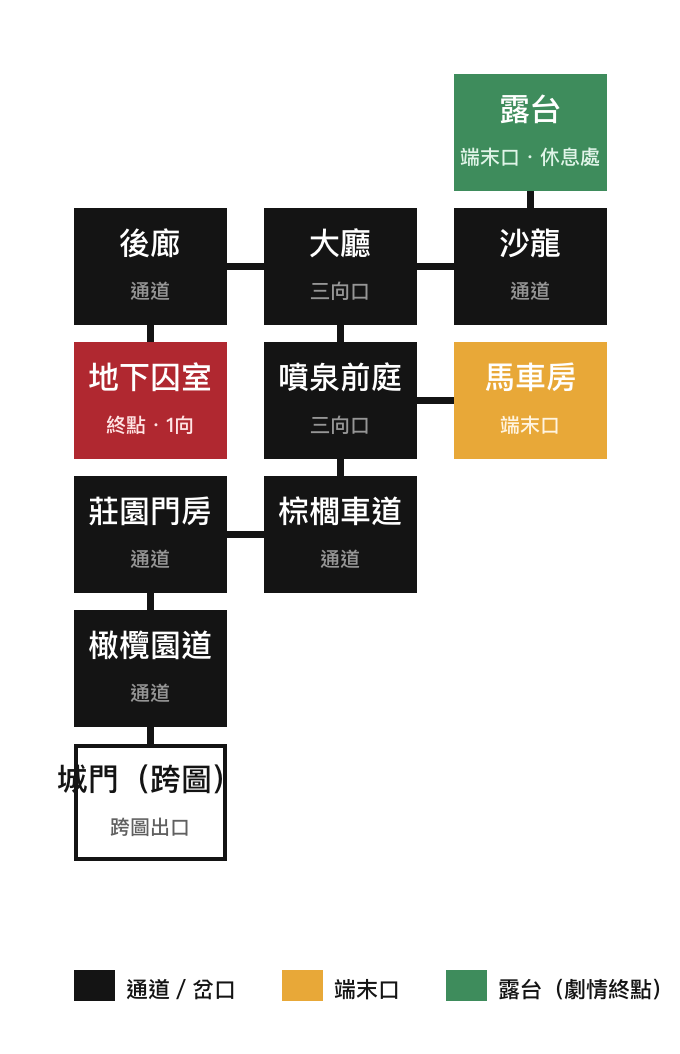
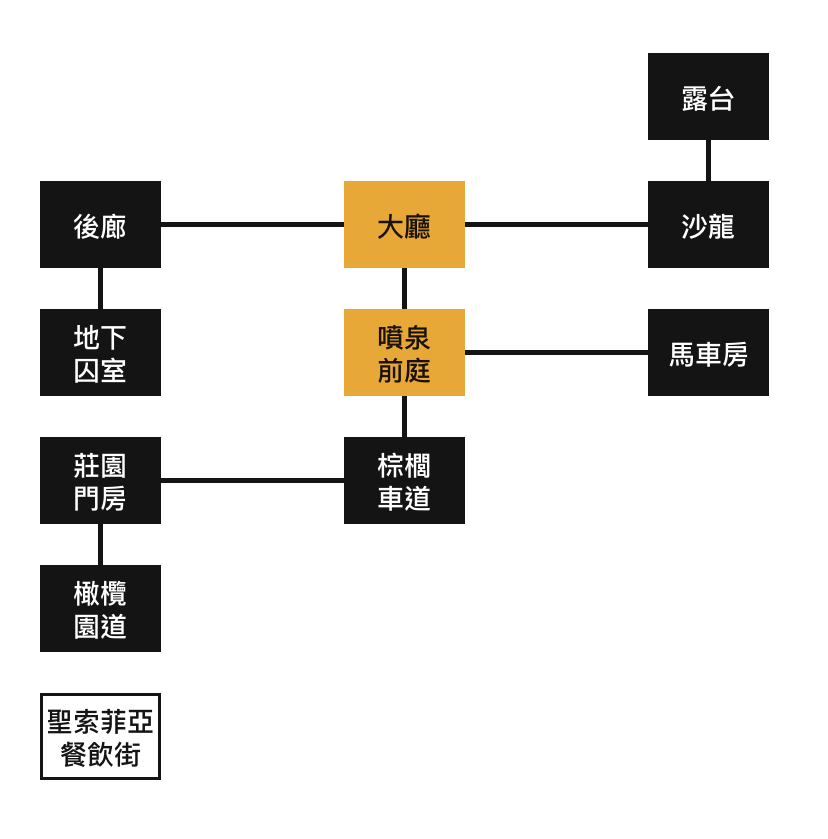
feat(里朋莊園): sofiaout 10 格搬進 TOWNS，聖索菲亞餐飲街往右進莊園（園道回頭接餐飲街）；草稿回收 ver -1762

diff --git a/flight/index.html b/flight/index.html
@@ -3,7 +3,7 @@
 <head>
 <meta charset="utf-8">
 <meta name="viewport" content="width=device-width,initial-scale=1,maximum-scale=1,user-scalable=no,viewport-fit=cover">
-<script src="../orientation.js?v=1761"></script>
+<script src="../orientation.js?v=1762"></script>
 <title>TIVOT — 銀月大陸航行</title>
 <style>
   :root{ --gold:#c9a227; --parch:#d8cdb4; }
@@ -212,7 +212,7 @@
     100%{transform:translate(0,0);} }
   #fkerbDoor{position:absolute;left:0;top:0;transform:translateY(0);
     transition:transform 1s cubic-bezier(.22,.9,.25,1);
-    background-image:url('../resources/vfx/kerberos_door.webp?v=1761edab');
+    background-image:url('../resources/vfx/kerberos_door.webp?v=1762edab');
     background-repeat:no-repeat;background-size:100% 100%;}
   #fkerb.rise #fkerbDoor{transform:translateY(calc(var(--fkerb-rise,0px) * -1));}
   /* 楣與其餘零件：全部是門的子元素＝同一剛體，門上推它們跟著上去
@@ -235,8 +235,8 @@
       radial-gradient(circle at 50% 22%, rgba(0,0,0,.72) 40%, rgba(0,0,0,0) 78%);
     box-shadow:inset 0 3px 7px rgba(0,0,0,.85);}
   #fkerbGear .fkg-shine{position:absolute;inset:0;mix-blend-mode:screen;opacity:.8;
-    -webkit-mask-image:url("../resources/vfx/kerberos_gear.webp?v=1761edab");
-    mask-image:url("../resources/vfx/kerberos_gear.webp?v=1761edab");
+    -webkit-mask-image:url("../resources/vfx/kerberos_gear.webp?v=1762edab");
+    mask-image:url("../resources/vfx/kerberos_gear.webp?v=1762edab");
     -webkit-mask-size:100% 100%;mask-size:100% 100%;
     -webkit-mask-repeat:no-repeat;mask-repeat:no-repeat;
     background:linear-gradient(114deg,
@@ -256,8 +256,8 @@
     filter:drop-shadow(0 3px 7px rgba(0,0,0,.9)) drop-shadow(0 0 2px rgba(0,0,0,.8));}
   #fkerbPend .fkp-shine{position:absolute;inset:0;pointer-events:none;
     mix-blend-mode:screen;opacity:.85;
-    -webkit-mask-image:url("../resources/vfx/kerberos_pendant.webp?v=1761edab");
-    mask-image:url("../resources/vfx/kerberos_pendant.webp?v=1761edab");
+    -webkit-mask-image:url("../resources/vfx/kerberos_pendant.webp?v=1762edab");
+    mask-image:url("../resources/vfx/kerberos_pendant.webp?v=1762edab");
     -webkit-mask-size:100% 100%;mask-size:100% 100%;
     -webkit-mask-repeat:no-repeat;mask-repeat:no-repeat;
     background:linear-gradient(114deg,
@@ -620,25 +620,25 @@
        ⚠ 要有，否則交棒那一格齒輪會憑空冒出來（同吊墜的理由）。
        ⚠ 排在 `.fk-plate` 之前 ＝ 團徽之下、槍棺之上。 -->
   <div id="fkerbGear"><i class="fkg-well"></i>
-    <img src="../resources/vfx/kerberos_gear.webp?v=1761edab" alt=""><i class="fkg-shine"></i></div>
+    <img src="../resources/vfx/kerberos_gear.webp?v=1762edab" alt=""><i class="fkg-shine"></i></div>
   <div id="fkerbGearSm"><i class="fkg-well"></i>
-    <img src="../resources/vfx/kerberos_gear.webp?v=1761edab" alt=""></div>
-  <img class="fk-plate" src="../resources/vfx/kerberos_plate.webp?v=1761edab" alt="">
-  <img class="fk-arrow n" src="../resources/vfx/kerberos_arrow.webp?v=1761edab" alt="">
-  <img class="fk-arrow e" src="../resources/vfx/kerberos_arrow.webp?v=1761edab" alt="">
-  <img class="fk-arrow s" src="../resources/vfx/kerberos_arrow.webp?v=1761edab" alt="">
-  <img class="fk-arrow w" src="../resources/vfx/kerberos_arrow.webp?v=1761edab" alt="">
-  <img class="fk-rivet r10" src="../resources/vfx/kerberos_rivet.webp?v=1761edab" alt="">
-  <img class="fk-rivet r2"  src="../resources/vfx/kerberos_rivet.webp?v=1761edab" alt="">
-  <img class="fk-rivet r4"  src="../resources/vfx/kerberos_rivet.webp?v=1761edab" alt="">
-  <img class="fk-rivet r8"  src="../resources/vfx/kerberos_rivet.webp?v=1761edab" alt="">
+    <img src="../resources/vfx/kerberos_gear.webp?v=1762edab" alt=""></div>
+  <img class="fk-plate" src="../resources/vfx/kerberos_plate.webp?v=1762edab" alt="">
+  <img class="fk-arrow n" src="../resources/vfx/kerberos_arrow.webp?v=1762edab" alt="">
+  <img class="fk-arrow e" src="../resources/vfx/kerberos_arrow.webp?v=1762edab" alt="">
+  <img class="fk-arrow s" src="../resources/vfx/kerberos_arrow.webp?v=1762edab" alt="">
+  <img class="fk-arrow w" src="../resources/vfx/kerberos_arrow.webp?v=1762edab" alt="">
+  <img class="fk-rivet r10" src="../resources/vfx/kerberos_rivet.webp?v=1762edab" alt="">
+  <img class="fk-rivet r2"  src="../resources/vfx/kerberos_rivet.webp?v=1762edab" alt="">
+  <img class="fk-rivet r4"  src="../resources/vfx/kerberos_rivet.webp?v=1762edab" alt="">
+  <img class="fk-rivet r8"  src="../resources/vfx/kerberos_rivet.webp?v=1762edab" alt="">
   <!-- 吊墜（ver -412）：與主遊戲同一套（見 index.html 的 #kerbPend 與 style.css）。
        ⚠ 這一頁**必須也有** —— 遭遇時門是在這裡推上來的，交棒之後主遊戲那一半才接手；
          只有一邊掛吊墜的話，交棒那一格會憑空多出一個東西。 -->
   <div id="fkerbPend"><div class="fkp-swing"><div class="fkp-idle">
-    <img src="../resources/vfx/kerberos_pendant.webp?v=1761edab" alt=""><i class="fkp-shine"></i>
+    <img src="../resources/vfx/kerberos_pendant.webp?v=1762edab" alt=""><i class="fkp-shine"></i>
   </div></div></div>
-  <img id="fkerbTop" src="../resources/vfx/kerberos_top.webp?v=1761edab" alt="">
+  <img id="fkerbTop" src="../resources/vfx/kerberos_top.webp?v=1762edab" alt="">
 </div></div>
 <div id="boot">
   <div id="bRing">
@@ -659,11 +659,11 @@
   <div id="bMsg"><small id="bootMsg"></small></div>
 </div>
 
-<script src="settlement.js?v=1761"></script>
+<script src="settlement.js?v=1762"></script>
 <!-- 閒聊對話的**內容**獨立成一支：方便加台詞、加觸發條件而不必碰引擎。
      ⚠ 一般 <script>（非 module）→ TALKS / talkPeriod / talkPick 是全域，
        而且會在下面這段 inline 之前執行完，所以 inline 內可以直接用。 -->
-<script src="talks.js?v=1761"></script>
+<script src="talks.js?v=1762"></script>
 <script>
 /* ══════════════════════════════════════════════════════════════════════
    TIVOT — 銀月大陸航行（吃真實地圖版）
@@ -715,7 +715,7 @@ const COLOR_URL  = 'silvermoon_terrain.png'  + TERRAIN_V;
    以前是手寫的，於是從 -911 起就沒有人記得動它 —— 而 HUD 上的版本號正是 Ray
    在手機上確認「我現在跑的是哪一版」的唯一依據（鐵律 7：一個量一個計算點；
    ver -626：版本號不動就等於沒有版本號）。**不要手改。** */
-const FLIGHT_VER = 'ver -1761';
+const FLIGHT_VER = 'ver -1762';
 const MAP_SCALE  = 20;
 const INV_SCALE  = 1/MAP_SCALE;
 const PEAK_SCALE = 520;   // 高度圖 255 對應的世界高度（越大山越陡）

diff --git a/index.html b/index.html
@@ -16,7 +16,7 @@
 <link rel="apple-touch-icon" href="resources/background/tivot_emblem.png">
 <title>TIVOT</title>
 <!-- 全域鎖直向（真鎖 + 橫向擋板）；classic script，需在版面就緒前掛上 -->
-<script src="orientation.js?v=1761"></script>
+<script src="orientation.js?v=1762"></script>
 <!-- ══ 效能探針・計數層（ver -850，Ray：「沒有辦法寫一個偵測程式進去看是什麼
      東西在吃資源嗎？」）══ 要在**所有程式之前**掛（晚掛就數不到早開的計時器），
      所以住在這裡。只做登記（Set/計數，開銷趨近零）；讀取與呈現在 main.js 的
@@ -63,56 +63,56 @@
 <script type="importmap">
 {
   "imports": {
-    "./audio.js": "./audio.js?v=1761",
-    "./config.js": "./config.js?v=1761",
-    "./i18n.js": "./i18n.js?v=1761",
-    "./main.js": "./main.js?v=1761",
-    "./orientation.js": "./orientation.js?v=1761",
-    "./state.js": "./state.js?v=1761",
-    "./telemetry.js": "./telemetry.js?v=1761",
-    "./modules/combat.js": "./modules/combat.js?v=1761",
-    "./modules/defense.js": "./modules/defense.js?v=1761",
-    "./modules/enemy.js": "./modules/enemy.js?v=1761",
-    "./modules/gear.js": "./modules/gear.js?v=1761",
-    "./modules/groundShadow.js": "./modules/groundShadow.js?v=1761",
-    "./modules/haptics.js": "./modules/haptics.js?v=1761",
-    "./modules/inn.js": "./modules/inn.js?v=1761",
-    "./modules/inspector.js": "./modules/inspector.js?v=1761",
-    "./modules/loot.js": "./modules/loot.js?v=1761",
-    "./modules/partner.js": "./modules/partner.js?v=1761",
-    "./modules/saint.js": "./modules/saint.js?v=1761",
-    "./modules/sakura.js": "./modules/sakura.js?v=1761",
-    "./modules/save.js": "./modules/save.js?v=1761",
-    "./modules/settings.js": "./modules/settings.js?v=1761",
-    "./modules/story.js": "./modules/story.js?v=1761",
-    "./modules/tone.js": "./modules/tone.js?v=1761",
-    "./modules/town.js": "./modules/town.js?v=1761",
-    "./modules/transition.js": "./modules/transition.js?v=1761",
-    "./modules/tutorial.js": "./modules/tutorial.js?v=1761",
-    "./modules/weapon.js": "./modules/weapon.js?v=1761",
-    "./script/bg_index.js": "./script/bg_index.js?v=1761",
-    "./script/clock.js": "./script/clock.js?v=1761",
-    "./script/enemies.js": "./script/enemies.js?v=1761",
-    "./script/evaluation.js": "./script/evaluation.js?v=1761",
-    "./script/inventory.js": "./script/inventory.js?v=1761",
-    "./script/loadout.js": "./script/loadout.js?v=1761",
-    "./script/mainScript.js": "./script/mainScript.js?v=1761",
-    "./script/progress.js": "./script/progress.js?v=1761",
-    "./script/shopstock.js": "./script/shopstock.js?v=1761",
-    "./script/speakers.js": "./script/speakers.js?v=1761",
-    "./script/town.js": "./script/town.js?v=1761",
-    "./i18n/en.js": "./i18n/en.js?v=1761",
-    "./i18n/ja.js": "./i18n/ja.js?v=1761",
-    "./i18n/zh.js": "./i18n/zh.js?v=1761"
+    "./audio.js": "./audio.js?v=1762",
+    "./config.js": "./config.js?v=1762",
+    "./i18n.js": "./i18n.js?v=1762",
+    "./main.js": "./main.js?v=1762",
+    "./orientation.js": "./orientation.js?v=1762",
+    "./state.js": "./state.js?v=1762",
+    "./telemetry.js": "./telemetry.js?v=1762",
+    "./modules/combat.js": "./modules/combat.js?v=1762",
+    "./modules/defense.js": "./modules/defense.js?v=1762",
+    "./modules/enemy.js": "./modules/enemy.js?v=1762",
+    "./modules/gear.js": "./modules/gear.js?v=1762",
+    "./modules/groundShadow.js": "./modules/groundShadow.js?v=1762",
+    "./modules/haptics.js": "./modules/haptics.js?v=1762",
+    "./modules/inn.js": "./modules/inn.js?v=1762",
+    "./modules/inspector.js": "./modules/inspector.js?v=1762",
+    "./modules/loot.js": "./modules/loot.js?v=1762",
+    "./modules/partner.js": "./modules/partner.js?v=1762",
+    "./modules/saint.js": "./modules/saint.js?v=1762",
+    "./modules/sakura.js": "./modules/sakura.js?v=1762",
+    "./modules/save.js": "./modules/save.js?v=1762",
+    "./modules/settings.js": "./modules/settings.js?v=1762",
+    "./modules/story.js": "./modules/story.js?v=1762",
+    "./modules/tone.js": "./modules/tone.js?v=1762",
+    "./modules/town.js": "./modules/town.js?v=1762",
+    "./modules/transition.js": "./modules/transition.js?v=1762",
+    "./modules/tutorial.js": "./modules/tutorial.js?v=1762",
+    "./modules/weapon.js": "./modules/weapon.js?v=1762",
+    "./script/bg_index.js": "./script/bg_index.js?v=1762",
+    "./script/clock.js": "./script/clock.js?v=1762",
+    "./script/enemies.js": "./script/enemies.js?v=1762",
+    "./script/evaluation.js": "./script/evaluation.js?v=1762",
+    "./script/inventory.js": "./script/inventory.js?v=1762",
+    "./script/loadout.js": "./script/loadout.js?v=1762",
+    "./script/mainScript.js": "./script/mainScript.js?v=1762",
+    "./script/progress.js": "./script/progress.js?v=1762",
+    "./script/shopstock.js": "./script/shopstock.js?v=1762",
+    "./script/speakers.js": "./script/speakers.js?v=1762",
+    "./script/town.js": "./script/town.js?v=1762",
+    "./i18n/en.js": "./i18n/en.js?v=1762",
+    "./i18n/ja.js": "./i18n/ja.js?v=1762",
+    "./i18n/zh.js": "./i18n/zh.js?v=1762"
   }
 }
 </script>
 <!-- BUST:END -->
-<link rel="stylesheet" href="style.css?v=1761">
+<link rel="stylesheet" href="style.css?v=1762">
   <!-- 拾得道具／道具欄／商店／懸賞榜（ver -380 抽出，飛行頁共用同一份）。
        ⚠ `data-lootsheet` 是給 `modules/loot.js` 認的：它看到已經掛過就不再掛一次。
          飛行頁沒有這一行，由那支模組自己掛上去。 -->
-  <link rel="stylesheet" href="css/lootsheet.css?v=1761" data-lootsheet="1">
+  <link rel="stylesheet" href="css/lootsheet.css?v=1762" data-lootsheet="1">
 <!-- 主畫面 App（standalone）偵測：首繪前在 <html> 蓋 .standalone，
      供 CSS 修 iOS 26 版面視窗少算頂部安全區高度（底部露黑帶）的問題 -->
 <script>
@@ -720,6 +720,6 @@
      ⚠ src 是**按下去才給**的（lazy）：不然每次開機都要多載一整個飛行頁。 -->
 <iframe id="flightFrame" title="飛行"></iframe>
 
-<script type="module" src="main.js?v=1761"></script>
+<script type="module" src="main.js?v=1762"></script>
 </body>
 </html>

diff --git a/script/town.js b/script/town.js
@@ -4444,7 +4444,8 @@ export const TOWNS = {
       uptown:   { bg:'sofia_uptown',   name:'聖索菲亞　上街區', noTime:true,
         exits:{ left:'square', right:'tavern', up:'inn', down:'grocery' } },
       tavern:   { bg:'sofia_bistro',   name:'聖索菲亞　餐飲街', noTime:true,
-        exits:{ back:'uptown' } },
+        /* `right:'@sofiaout'`（ver -1762，Ray：「接在餐飲街右邊」）＝往里朋莊園（入口：橄欖園道）。 */
+        exits:{ back:'uptown', right:'@sofiaout' } },
       grocery:  { bg:'sofia_grocerie', name:'聖索菲亞　雜貨舖', noTime:true,
         exits:{ back:'uptown' } },
       /* ⚠ 這一格**沒有** `inn:true`：旅店大廳與四扇伙伴門這一輪不做（立繪還沒交）。
@@ -8944,6 +8945,37 @@ export const TOWNS = {
        真的落進這裡再請美術畫 —— 現在落好了，可以發需求了。
      ⚠ 迷霧是預設（不寫 `mist:0`）：這是迷宮，走過才亮正是它的玩法。
      ══════════════════════════════════════════════════════════════════════ */
+  /* ══════════════════════════════════════════════════════════════════════
+     里朋莊園（`sofiaout`，ver -1762，Ray：「索菲亞連往莊園中間的路應該已經好了，接在餐飲街右邊」）
+     ──────────────────────────────────────────────────────────────────────
+     聖索菲亞郊外・里朋家族的豪宅（Stage 14 合流：救小女孩的姐姐）。拓樸＝`tools/map_sofiaout_draft.py` 的 v3
+     原樣搬來（11 格含跨圖的 gate ⇒ 10 格），那支草稿已回收；版面在 `tools/map_layout.py` 的 `POS.sofiaout`。
+     · **不在飛行地圖上**（-1761 Ray：「從城鎮進去就好」）⇒ 只從聖索菲亞的餐飲街走進來：
+       餐飲街 `right:'@sofiaout'` → 入口 `road`（橄欖園道＝「中間的路」）；園道的回頭路 `back:'@santasofia:tavern'`，
+       `back` 會掛在「來時方向的反向」＝左，兩端相反（§6.5.4）。
+     · 每格 `noTime:true`（這一批 10 張都是下午硬光，沒有時段差分）、迷霧預設、`wilderness`（私人莊園沒有營業時間）。
+     · 草稿標的：露台 `terrace`＝休息處（`rest`＋`noWild`）、地下囚室 `cellar`＝終點（馬努決戰）。
+     ⚠ **還沒有的**：戰鬥（結算點在囚室還是露台 Ray 未定）、`wildSpawn`、劇情、小地圖 —— 現在走進去是空的。
+     ⚠ `bgm:'suspense'`（北方泊地那一首）是程式端自己挑的，Ray 要換就改這一格。 */
+  sofiaout: {
+    name: '里朋莊園',
+    entry: 'road',
+    bgm: 'suspense',
+    wilderness: true,
+    nodes: {
+      terrace:    { bg:'sofiaout_terrace', name:'里朋莊園　露台', noTime:true, rest:true, noWild:true, exits:{ down:'salon' } },
+      backhall:   { bg:'sofiaout_backhall', name:'里朋莊園　後廊', noTime:true, exits:{ right:'hall', down:'cellar' } },
+      hall:       { bg:'sofiaout_hall', name:'里朋莊園　大廳', noTime:true, exits:{ left:'backhall', right:'salon', down:'forecourt' } },
+      salon:      { bg:'sofiaout_salon', name:'里朋莊園　沙龍', noTime:true, exits:{ up:'terrace', left:'hall' } },
+      cellar:     { bg:'sofiaout_cellar', name:'里朋莊園　地下囚室', noTime:true, exits:{ up:'backhall' } },
+      forecourt:  { bg:'sofiaout_forecourt', name:'里朋莊園　噴泉前庭', noTime:true, exits:{ up:'hall', right:'carriage', down:'avenue' } },
+      carriage:   { bg:'sofiaout_carriage', name:'里朋莊園　馬車房', noTime:true, exits:{ left:'forecourt' } },
+      lodge:      { bg:'sofiaout_lodge', name:'里朋莊園　莊園門房', noTime:true, exits:{ right:'avenue', down:'road' } },
+      avenue:     { bg:'sofiaout_avenue', name:'里朋莊園　棕櫚車道', noTime:true, exits:{ up:'forecourt', left:'lodge' } },
+      road:       { bg:'sofiaout_road', name:'里朋莊園　橄欖園道', noTime:true, noWild:true, exits:{ up:'lodge', back:'@santasofia:tavern' } },
+    },
+  },
+
   /* ══════════════════════════════════════════════════════════════════════
      羅賽爾廢城（`dunmor`，ver -1753，Ray：「把無人廢城改成羅賽爾廢城，接上拓樸」）
      ──────────────────────────────────────────────────────────────────────

diff --git a/modules/story.js b/modules/story.js
@@ -2551,7 +2551,7 @@ const KERB_DIR='resources/vfx/';
    cache-buster（§5：檔名沒變、內容變了，瀏覽器照樣拿舊的那一份，而症狀只是
    「看起來沒變」）。版本號由 `tools/bust.py` 同步，路徑只由 `kerbUrl()` 組（鐵律 8）——
    飛行頁那一半是另一個 document，各有一份，改一邊要改另一邊。 */
-const KERB_V='?v=1761';
+const KERB_V='?v=1762';
 const kerbUrl=n=>KERB_DIR+n+'.webp'+KERB_V;
 /* 幾何：由 tools/kerberos_cut.py 印出來的（門座標的比例）。**改圖要重跑腳本再貼回來。**
    ⚠ 箭與鉚釘給的是**中心點**與**未旋轉**的尺寸 —— CSS 的 rotate 是繞元素中心轉的，

diff --git a/config.js b/config.js
@@ -81,7 +81,7 @@ export const HITFX = {
  *     以為是快取卡住 —— 版本號不動就等於沒有版本號）。
  *  ⚠ 它同時是**暖開機戳記的鑰匙**（main.js 的 `WARM_BOOT`）：版本一變，
  *    上一版的戳記就失效 → 下一次開機重跑完整讀取。那正是改版後該有的行為。 */
-export const VERSION = 'ver 2026.09.22-1761';
+export const VERSION = 'ver 2026.09.22-1762';
 
 export const GAME_CONFIG = {
 

diff --git a/tools/map_layout.py b/tools/map_layout.py
@@ -54,6 +54,14 @@ POS = {
   # ── 貝利薩爾遺址（ver -1396）：38 格・41 邊・4 環 ────────────────────
   #   ⚠ 這一張**排不進標準的直角格**（見 BEND）：欄列之間刻意留空，
   #     版面只保證「方向的正負號」對（left 的鄰居欄號比較小），不保證剛好差 1。
+  # ── 里朋莊園（ver -1762）：10 格，座標照搬 `tools/map_sofiaout_draft.py`（那支已回收）；跨圖出口見 OUT_POS ──
+  'sofiaout': {
+    'terrace':(8,4),
+    'backhall':(4,5), 'hall':(6,5), 'salon':(8,5),
+    'cellar':(4,6), 'forecourt':(6,6), 'carriage':(8,6),
+    'lodge':(4,7), 'avenue':(6,7),
+    'road':(4,8),
+  },
   # ── 羅賽爾廢城（ver -1753）：55 格・5 環，座標照搬 `tools/map_dunmor_draft.py`（那支已回收）──
   'dunmor': {
     'kingsbarrow':(0,5), 'barrowfield':(2,5), 'altar':(4,5), 'springpool':(6,5), 'altarcourt':(8,5), 'skullniche':(10,5),
@@ -224,6 +232,7 @@ OUT_POS = {
                     '@eastport:dock':        (2, 7, '東方泊地\n碼頭')},
   'shinier_ruins': {'@shinier_forest:ruins': (5,9, '遺蹟\n入口')},
   'shinier':       {'@shinier_forest':      (2,2, '夏爾\n森林')},
+  'sofiaout':      {'@santasofia:tavern':   (4,9, '聖索菲亞\n餐飲街')},
 }
 
 def load(town):

diff --git a/HANDOFF.md b/HANDOFF.md
@@ -19,7 +19,7 @@
 >    ④ ✅ **-1743 已跳** ⚠⚠ **`config.js` 的 `ASSET_VER` 要跳這 14 個鍵**（第四版同名覆蓋了第一版）：`dunmor_causeway` `dunmor_southgate` `dunmor_ditchw` `dunmor_oghamrow` `dunmor_gatecourt` `dunmor_mainstreet` `dunmor_marketcross` `dunmor_boarstone` `dunmor_innergate` `dunmor_druidhouse` `dunmor_oakgrove` `dunmor_nemeton` `dunmor_altar` `dunmor_wellsq`（其餘 41 張是新增，不必跳）
 >    ⑤ 等 Ray：`hallcourt` 正門本該堵死、圖裡只擋一半要不要重出；小地圖走 `tools/map_compose.py` 另開一單
 >    總覽 `resources/background/_dunmor_all55_sheet.jpg`；逐格出口／鏡頭／月亮朝向在工單 §八／§九 的表。
-> 10. **（09-26 凌晨，Mac）聖索菲亞郊外・里朋家族豪宅 `sofiaout`（Stage 14 合流：救小女孩的姐姐）** —— 拓樸 v3 提案在 `resources/map/_sofiaout_spec.md` §一（產生器 `tools/map_sofiaout_draft.py`、佈局圖 `_layout_sofiaout.png`）：
+> 10. ✅ **-1762 已接（戰鬥／結算點仍等 Ray）** **（09-26 凌晨，Mac）聖索菲亞郊外・里朋家族豪宅 `sofiaout`（Stage 14 合流：救小女孩的姐姐）** —— 拓樸 v3 提案在 `resources/map/_sofiaout_spec.md` §一（產生器 `tools/map_sofiaout_draft.py`、佈局圖 `_layout_sofiaout.png`）：
 >    11 格、**兩個終點**（`cellar` 地下囚室＝馬努決戰、`terrace` 露台＝挾人質劇情）；背景 **10／10 已交** `resources/background/sofia/sofiaout_<id>.webp`（09-26 中午補齊 road／avenue／carriage／backhall／cellar／terrace，`bg_index.js` 已重跑；`backhall` 往下石階不明顯，重出與否等 Ray）；小地圖另開。
 >    程式端要做的（Ray 點頭後）：搬進 `script/town.js`（全部 `noTime:true`、`bg:'sofiaout_<id>'`）、`gate` 接聖索菲亞哪一格（建議 `uptown`）、結算點在囚室還是露台、`map_layout.py` 補 `POS`、產生器回收。全部新增檔，不用跳 `ASSET_VER`。
 > 11. ✅ **-1755 已接** **（09-26，Mac）羅賽爾廢城小地圖交件** —— `resources/map/map_dunmor.webp`＋`_spots_dunmor.json`（55 格）。`TOWNS.dunmor` 補一行（新增、不必 `?v=`），整行可抄在 `resources/background/_dunmor_spec.md` §十：
@@ -41,7 +41,7 @@
 > ／三件等 Ray 決定的）。⚠ 那一份是 2026-09-22 晚寫的，做完請把它刪掉或標成已接。
 
 > ⚠⚠⚠ **換 session（2026-09-25，Mac，程式 session 收工）—— 開工前先讀這一塊**
-> · `origin/main` ＝ **`-1761`**（見下一段），工作樹只剩 Ray 自己的 untracked 檔，沒有欠 commit。
+> · `origin/main` ＝ **`-1762`**（見下一段），工作樹只剩 Ray 自己的 untracked 檔，沒有欠 commit。
 > · **這一輪 -1728～-1733 沒在瀏覽器驗到的（省用量，Ray 在 8200 看）**：
 >   ① 墓門開場的新順序（兵聲起→米夏 CI→terrify→行軍插圖→索那句→插圖收兵聲停），三版都改了
 >   ② 拉煙減量（機槍 3 團／霰彈 1 團）與去 blur 的視覺 ③ Stage 14（`enter:'flight'`＋`flight:{town:'ravnsdal'}`）落點
@@ -54,7 +54,19 @@
 > · 這台 Mac 上 Ray 的 untracked 檔清單見 -1724 那一段（沒推、換機器要自己帶）。
 > · 路線模擬器 `tools/routesim.mjs`（Mac：`cd tools && jsc -m routesim.mjs -- BAM2 40`）。
 
-# HANDOFF — 截至 `ver 2026.09.22-1761`
+# HANDOFF — 截至 `ver 2026.09.22-1762`
+
+**`-1762`：里朋莊園（`sofiaout`）接進城鎮資料，從聖索菲亞餐飲街往右走進去**（Ray：「索菲亞連往莊園中間的路應該已經好了，接在餐飲街右邊」）
+· `TOWNS.sofiaout`（名「里朋莊園」）：10 格，照 `map_sofiaout_draft.py` v3 原樣搬（草稿回收，版面進 `map_layout.py` 的 `POS`／`OUT_POS`）。
+  入口 `road`（橄欖園道）；露台 `terrace`＝`rest`＋`noWild`；地下囚室 `cellar`＝終點（戰鬥未定）。每格 `noTime`、迷霧、`wilderness`。
+  `bgm:'suspense'` 是程式端挑的。
+· 聖索菲亞 `tavern` 加 `right:'@sofiaout'`；園道 `back:'@santasofia:tavern'`。
+  ⚠ 跨圖進來沒有帶入方向 ⇒ 園道的回頭路掛在「下」（＝這張圖的身後、草稿上 gate 的位置）。不會彈：從餐飲街一直按右停在園道，一直按下回餐飲街再到上街區。
+· 實測（8123）：餐飲街多一支「右：里朋莊園」→ 園道（往前「？？？」、往下「聖索菲亞　餐飲街」）→ 往下回到餐飲街。
+· ⚠ `map_layout.py` 對這張印「8 邊・環數 −1」是顯示誤差（它不數 `back` 上的跨圖出口卻照樣扣掉）；資料實測 9 邊、10 格全連通、0 環。
+· ⚠ **還沒有**：戰鬥（結算點在囚室還是露台）、`wildSpawn`、劇情、小地圖。
+
+# （上一段）截至 `ver 2026.09.22-1761`
 
 **`-1761`：里朋莊園從飛行地圖拿掉**（Ray：「把莊園從飛行地圖拿掉吧，反正不是降落點，從城鎮進去就好」）
 · 刪掉 `SETTLEMENTS` 那一列、`PLACES` 那一筆名牌、`export_mapref.py` 那一行；俯視插畫的美術單 `flight/city/_ripon_plan.md` 回收（不需要了）。
